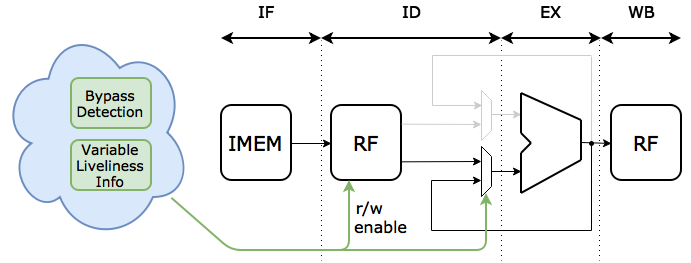
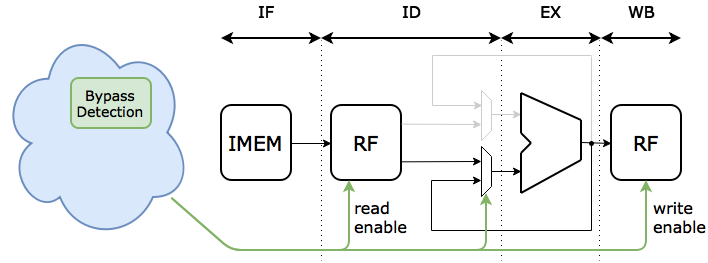
Second draft version, day before presentation finally got all feedback corporated and ready for external review.

diff --git a/chapters/solutions.tex b/chapters/solutions.tex
@@ -15,6 +15,12 @@ We could implement a pass to our backend that keeps track of the state of our pi
 
 However, when we ran out of registers during register allocation, we had inserted spill code. When we allocate bypasses, we effectively free up registers. Since the spill code had already been inserted, it might have become unnecessary. Therefore, one improvement to this approach would be to move spill code after bypasses have been allocated to where they are needed, in order to avoid unnecessary spills.
 
+\subsection{Advantages}
+One of the advantages of this approach is its simplicity. Namely, the schedule is already given and variables have already been allocated to registers. Allocating bypasses with this information available is a relatively simpler problem. 
+
+\subsection{Disadvantages}
+Since the schedule is already given, there may be some additional bypassing opportunities that could have been used if the schedule would have been different. Therefore, some bypass opportunities may have been missed. Furthermore, this has currently been implemented as a pass that processes each basic block of a machine function. Desirable would be to extend the scope from basic block to a larger scope, e.g. extended basic blocks. 
+
 \section{Bypass-aware Register Allocation}\label{sec:ra_approach}
 %Approach 2
 Another approach would be to implement a bypass-aware register allocator. Assuming that we have performed scheduling before register allocation, the instructions are in order of execution, allowing us to model the pipeline state as we did for the first approach. Our bypass-aware register allocator could start by allocating bypass registers. Then the remaining virtual registers could be allocated as usual. With this approach, we reduce register pressure by allocating bypasses before register allocation, effectively freeing registers. Therefore we may need less spill code, which is now inserted after bypasses have been allocated. So in contrary to the first approach, we do not have to take special care of spilling.
@@ -22,10 +28,22 @@ Another approach would be to implement a bypass-aware register allocator. Assumi
 This approach would require us to implement a custom register allocator that consists of two phases. First, we allocate a bypass registers for each virtual register that can be bypassed. Subsequently, we have to allocate physical registers for the remaining virtual register. For the second phase we may reuse any of the existing register allocators. 
 %Introduce example code where we could have better bypass utilizzation, i.e. less stores by scheduling differently
 
+\subsection{Advantages}
+The main advantage of this approach is that it can deal efficiently with spill code. By effectively reducing register pressure before register allocation, we reduce the requirements on the register allocator.  
+Since register allocation and bypass allocation are similar problems, it makes sense that these phases can be reordered. 
+
+\subsection{Disadvantages}
+Similar to last-minute allocation, the schedule is given prior to register allocation. Therefore, a schedule may exist that allows for better utilization of the bypass network. Therefore, we may gain in resulting code quality by controlling the resulting schedule.
+
 \section{Bypass-aware Scheduling}\label{sec:scheduling_approach}
 %Approach 3
 For this approach we need to implement a custom scheduler for our backend. This scheduler would prioritize to schedule instructions that may be bypassed close to each other, such that we may increase the possible number of bypasses. If we were to allocate bypasses during scheduling, code might be inserted during register allocation or any other passes that follow, that may break a previously allocated bypass. Therefore, it may be wise to allocate the bypasses as late as possible, and let the scheduler be responsible for improving utilization of the bypass network. 
 
+\subsection{Advantages}
+By grouping instructions together such that they can be bypassed later on may increase the utilization of the bypass network and reduce accesses to the register file.
+
+\subsection{Disadvantages}
+Assuming that we have scheduled the code in such a way that we can efficiently use the bypass network, we still need to allocate the bypasses. We can use either one of the first two approaches to do this and can therefore combine this approach with the first or second approach.
 
 \section{Pre Scheduling Allocation}\label{sec:pre_scheduling}
 %Approach 4
@@ -35,6 +53,23 @@ When we allocate bypasses before scheduling and register allocation, it is possi
 
 With this approach, we would need to find a tradeoff to not restrict the schedule too much, but still utilizing the bypass network as much as possible.   
 
+\subsection{Advantages}
+We may further increase utilization of the bypass network, reducing the total number of accesses to the register file. Furthermore, this approach may be combined with the previously proposed solutions. 
+
+\subsection{Disadvantages}
+As stated before, glueing nodes together introduces constraints on the schedule. We do not want to make too much restrictions on the schedule such that we decrease efficiency of the compiled code. We do need to think of heuristics that may identify pairs of nodes which would increase the total number of bypasses if they were grouped together, and do that up to some point. Altogether, this means that it will be harder to develop because we should not do this too aggressively.
+
 \section{Combined Scheduling and Register Allocation}\label{sec:combined_sched_ra}
 %Approach 5 & 6
-We can also choose to solve scheduling and RA in one go. This way, problems that can arise of doing one before the other may be avoided. There are two approaches to solve this problem. One is to solve it optimally, using constraint programming. Unison, a separate project that solves scheduling and register allocation optimally in one go can be used with LLVM and can be extended to allocate our bypasses. However, solving this problem optimally, may increase compilation time significantly, which we would like to avoid. Therefore, another approach would be to use heuristics to solve scheduling and register allocation in one go. There are no implementations of this thus far, which makes this approach the most difficult one. However, when we can efficiently deal with these problems in one go, we might extend this for other architectures as well. 
+We can also choose to solve scheduling and RA in one go. This way, problems that can arise of doing one before the other may be avoided. There are two approaches to solve this problem. One is to solve it optimally, using constraint programming. Unison \cite{unison}, a separate project that solves scheduling and register allocation optimally in one go can be used with LLVM and can be extended to allocate our bypasses. However, solving this problem optimally, may increase compilation time significantly, which we would like to avoid. Therefore, another approach would be to use heuristics to solve scheduling and register allocation in one go. There are no implementations of this thus far, which makes this approach the most difficult one. However, when we can efficiently deal with these problems in one go, we might extend this for other architectures as well. 
+
+\subsection{Advantages}
+Both approaches discussed in this section have as advantage that they do not have limitations that may be introduced by doing either scheduling or register allocation first. We therefore aim to increase the quality of the resulting code by merging the scheduling phase with the register allocation phase. 
+
+\subsection{Disadvantages}
+In general, combining register allocation and scheduling into one problem increases complexity, because these relatively difficult problems now need to be solved in one go. 
+We have two variants of this approach, therefore we make a distinction between these two cases:
+\begin{itemize}
+\item Combined Scheduling and Register Allocation with Unison has as main disadvantage that compilation times increase, since a constraint solves is usually time consuming.
+\item Combined Scheduling and Register Allocation with Heuristics only works as well as the heuristics that are used. Therefore, the main disadvantage of this approach is its implementation complexity. Choosing heuristics and developing the pass will require more work than the other approaches.
+\end{itemize}

diff --git a/chapters/related_work.tex b/chapters/related_work.tex
@@ -1,20 +1,24 @@
-The related work is introduced in this part, including the legacy compiler, building the LLVM back-end for SIMD architecture, explicit datapaths in other architecture and some scheduling and register allocation algorithms applied in other compilers.
+There is related work for compilers that target SIMD architectures, in particular a compiler has been developed, referred to as legacy compiler. Furthermore, there is related work in building an LLVM backend, and compiling with explicit datapaths has been an active research topic for other architectures. We will also discuss some related work in scheduling and register allocation. We have divided this in four section in the remainder of this chapter.
+% scrap
+%The related work is introduced in this part, including the legacy compiler, building the LLVM back-end for SIMD architecture, explicit datapaths in other architecture and some scheduling and register allocation algorithms applied in other compilers.
 
 \section{Legacy compiler}
-The legacy compiler was developed by the ES group in 2003. We will use the SIMD architecture as it was designed during that project \cite{simd}. The legacy compiler has a custom backend for the SIMD architecture, that can generate code for explicit datapaths \cite{dongrio1} and it can compile a subset of C code and hand-touched OpenCL code, which requires custom pragmas to compile efficiently \cite{dongrio2}. The new compiler will be evaluated relative to the legacy compiler, to access efficiency of the new compiler.
+The legacy compiler was developed by the ES group in 2003. We will use the SIMD architecture as it was designed during that project \cite{simd}. The legacy compiler has a custom backend for the SIMD architecture, that can generate code for explicit datapaths \cite{dongrio1} and it can only compile a subset of C code and hand-touched OpenCL code, which requires manual insertion of custom pragmas to compile efficiently \cite{dongrio2}, which we do not desire. Our goal is to overcome these limitations and improve the compilers maintainability. Furthermore, the new compiler will be evaluated relative to the legacy compiler in order to access efficiency of the generated code.
 %Dongrio's simd work 
 %Johan janssen & ... TTA work
 %Other exposed datapaths
 
 \section{Building an LLVM back-end}
-Our backend is partially based on the works of creating a new backend in the LLVM compiler infrastructure \cite{tricore}. Furthermore, based on that work, an LLVM backend for SIMD architecture has been developed \cite{liu_zhenyuan}. However, this work is for code generation with implicit bypassing. We therefore need to extend this work to efficiently generate code for explicit bypassing as well. Therefore, our work will be an extension to previously noted work.
+Our backend is derived from tricore tutorial on creating a new backend for the LLVM compiler framework \cite{tricore}. Furthermore, based on that work, an LLVM backend for SIMD architecture without explicit bypassing has been developed \cite{liu_zhenyuan}. However, the current compiler generates code with implicit bypassing. We therefore need to extend this to efficiently generate code for explicit bypassing as well. Therefore, our work will be an extension to previously noted work.
 
 \section{Other Exposed/Explicit Datapath Architectures}
-The main works that we investigated is the TTA architecture, where instructions consist of data transports. However, this work can not be used, because with our SIMD architecture, the data transports are given, and we want to compile in order to efficiently use explicit datapaths that are provided \cite{tta, tta_codegen}.
+Compiling with explicit datapaths have been an active topic of research. We have investigated several architectures that face similar challenges. One of the main works that we investigated is the TTA architecture, where instructions consist of data transports. However, their approach can not be used because with our SIMD architecture, data transports are given and we want to compile in order to efficiently use the explicit datapaths that are provided \cite{tta, tta_codegen}.
 
 Another architecture that exploits explicit datapath architectures is the ReMove architecture \cite{remove}. That work focusses on scheduling for partially connected architectures with explicit datapaths. The ReMove architecture is similar to a VLIW, having multiple FUs, however here they have an interconnect network that connects the FUs to the RF. The scheduling algorithm used in this work can not be used in our work, because similar to the legacy compiler for SIMD, this project has a custom backend, which can not be reused for LLVM. However, the basic principles of the scheduling algorithms proposed in this work are still valid and may be reused for our work.
 
-\subsection{Scheduling and Register Allocation}
-First of all, from the existing scheduling algorithms, Swing Modulo Scheduling (SMS) seems to be a suitable scheduling approach. It is a heuristic approach that is able to deal efficiently with software pipelining.Furthermore it is known for its outstanding performance and low computational cost. The generated schedules are near optimal in terms of initiation interval and register requirements \cite{swingmodulo_paper, swingmodulo_thesis}.
+\section{Scheduling and Register Allocation}
+First of all, from the existing scheduling algorithms, Swing Modulo Scheduling (SMS) seems to be a suitable scheduling approach. It is a heuristic approach that is able to deal efficiently with software pipelining.Furthermore it is known for its outstanding performance and low computational cost. The generated schedules are near optimal in terms of initiation interval and register requirements \cite{swingmodulo_paper, swingmodulo_thesis}. We consider this a candidate scheduler to use.
 
-Furthermore, the following literature discusses register allocation for SSA-based programs that solves coloring problem optimally in quadratic-time optimal by decoupling coloring, spilling and coalescing \cite{ra}.
+Furthermore, the following literature discusses register allocation for SSA-based programs that solves coloring problem optimally in quadratic-time optimal by decoupling coloring, spilling and coalescing \cite{ra}. This technique may allow us to implement a custom register allocator that solves the problem in polynomial time.
+
+Finally, there is another project, called Unison. They solve scheduling and register allocation and other code generation tasks by translating them into combinatorial problems and solve them together with constraint programming \cite{unison}. We consider this a candidate constraint solver to use because it can be easily integrated with LLVM.

diff --git a/chapters/conclusions.tex b/chapters/conclusions.tex
@@ -1,42 +1,25 @@
-We have implemented last-minute bypass allocation and tested in on some benchmarks. However, we do not yet have all the benchmarks that we want to use. For this reason, we have chosen which benchmarks to use in order to evaluate the different approaches. These benchmarks will be developed and compiled, which is then compared to a handwritten assembly variant and to compiled code of the legacy compiler. 
+We have implemented last-minute bypass allocation and tested it on some benchmarks. However, we do not yet have all the benchmarks that we intend to use. Therefore we do not yet have reliable results that could indicate how efficient our first approach is. Furthermore, we have implemented last-minute bypassing for code generation, where we use only the CP processor. We want to extend this to allocate bypasses in a basic block for code generation, where we use both CP and PEs.
 
-What metric would be suitable to evaluate the different approaches with each other and with the legacy compiler?
+The overall results are good, however there are some limitations. Our approach processes basic blocks with only the available information of the current basic block. We notice that bypassing opportunities may be missed for small basic blocks, having only a few instructions. %This could be resolved however, by splitting the current pass in an analysis pass and a transformation pass. We then run the analysis part first, so that we have the state of 
 
-First of all, we could compare the number of cycles of the compiled code to that of the handwritten assembly and to resulting code of the legacy compiler, to assess efficiency in terms of execution speed. Furthermore, the ratio of bypass register accesses and normal register accesses may be used to determine efficiency of our bypass allocation approaches. Again, this ratio can be compared to that of the legacy compiler.
 
-We have implemented last-minute bypassing for code generation, where we use only the CP processor. We want to extend this to allocate bypasses in a basic block for code generation, where we use both CP and PEs.
+%BEGIN PROS & CONS
+We have evaluated each of the proposed solutions on their tradeoffs in table \ref{table:tradeoffs} on estimated implementation effort, compilation times if the approach were used, and gain in code quality that we may expect for each of the solutions. 
 
-\section{Benchmarks}\label{sec:benchmarks}
-\begin{itemize}
-    \item Signal processing kernels:
-        \begin{itemize}
-            \item Fast Fourier Transformation (FFT) algorithm:
-            \item Finite Impulse Response (FIR) filter:
-        \end{itemize}
-    \item Linear algebra kernels:
-        \begin{itemize}
-            \item Vector addition,
-            \item Vector dot product,
-            \item Matrix transpose,
-            \item Matrix multiplication.
-        \end{itemize}
-        \item Image processing kernels:
-    \begin{itemize}
-        \item Blurring algorithm:
-        \begin{itemize}
-            \item Gaussian blur,
-            \item Median blur.
-        \end{itemize}
-        \item Histogram
-        \item Fast Focus On Structures (FFOS) on  Organic Light Emitting Diode (OLED), which consists of the following kernels \cite{ffos}:
-        \begin{itemize}
-            \item Otsu's method: 
-            \item Binarization: 
-            \item Erosion: 
-            \item Projection: 
-        \end{itemize}
-    \end{itemize}
-    
-\end{itemize}
-
-We have yet to implement the benchmarks, and access efficiency of our approaches on these benchmarks. From that will follow how much accesses to the RF can be avoided. We will simulate the processor and compare the resulting assembly with automatic and with explicit bypasses. Then we can determine how much energy each of the kernels requires, and therefore determine how much energy we can save by adding explicit bypassing on top of the compiler targeting the SIMD architecture. 
+\begin{table}[h]
+\caption{Table with tradeoffs for each approach from Chapter \ref{chapter:solutions}.}
+\begin{center}
+\begin{tabular}{@{}p{0.4\textwidth-2\tabcolsep}p{0.2\textwidth-2\tabcolsep}p{0.2\textwidth-2\tabcolsep}p{0.2\textwidth-2\tabcolsep}@{}}
+\toprule
+\textbf{Aprroach} 		& \textbf{Implementation simplicity} & \textbf{Compilation speed} & \textbf{Quality of the compiled code} \\ \hline
+Last-minute Allocation  	& $++$ & $+$ & $+$ \\
+Bypass-aware Register Allocation & $+$ & $+$ & $+$ \\
+Bypass-aware Scheduling & $+$ & $+$ & $+$ \\
+Pre Scheduling Allocation & $-$ & $+$ & $+$ \\
+Combining Scheduling and Register Allocation Heuristic & $--$ & $+$ & $++$ \\
+Combined Scheduling and Register Allocation with Unison & $-$ & $--$ & $++$ \\
+\bottomrule
+\end{tabular}
+\end{center}
+\label{table:tradeoffs}
+\end{table}%

diff --git a/chapters/evaluation.tex b/chapters/evaluation.tex
@@ -1,0 +1,73 @@
+We have chosen which benchmarks will be used to evaluate each of the proposed solutions and given them in Table \ref{table:benchmarks}. These benchmarks will be developed and compiled, which will then be compared to a handwritten assembly version and to compiled code that would have been produced by the legacy compiler. 
+
+\begin{table}[h]
+\caption{Table with benchmark kernels that we have chosen to evaluate each of the proposed solutions.}
+\begin{center}
+\begin{tabular}{@{}p{0.3\textwidth-2\tabcolsep}p{0.7\textwidth-2\tabcolsep}@{}}
+\toprule
+\textbf{Category:} & \textbf{Kernel:} \\ \hline
+{Signal Processing} & Fast Fourier Transformation (FFT) \\
+								& Finite Impulse Response (FIR) filter \\
+{Linear Algebra Kernels} 	& Vector addition \\
+            					& Vector dot product \\
+            					& Matrix transpose \\
+            					& Matrix multiplication \\
+{Image Processing} 	& Blurring filter: \\
+					& - Gaussian blur \\
+					& - Median blur \\
+					& Fast Focus On Structures (FFOS) on Organic Light Emitting Diode (OLED), which consists of the following kernels \cite{ffos}: \\
+					& - Otsu's method \\
+					& - Binarization \\
+					& - Erosion \\
+					& - Projection \\
+%	& Vector addition		& Gaussian blur\\
+%	& Vector dot product		& Median blur \\
+%							& Matrix transpose		& FFOS \\
+%							& 					& - Otsu's method \\
+%							& 					& - Binarization \\
+%							& 					& - Erosion \\
+%							& 					& - Projection \\
+\bottomrule
+\end{tabular}
+\end{center}
+\label{table:benchmarks}
+\end{table}%
+
+
+%\section{Benchmarks}\label{sec:benchmarks}
+%\begin{itemize}
+%    \item Signal processing kernels:
+%        \begin{itemize}
+%            \item Fast Fourier Transformation (FFT) algorithm:
+%            \item Finite Impulse Response (FIR) filter:
+%        \end{itemize}
+%    \item Linear algebra kernels:
+%        \begin{itemize}
+%            \item Vector addition,
+%            \item Vector dot product,
+%            \item Matrix transpose,
+%            \item Matrix multiplication.
+%        \end{itemize}
+%        \item Image processing kernels:
+%    \begin{itemize}
+%        \item Blurring algorithm:
+%        \begin{itemize}
+%            \item Gaussian blur,
+%            \item Median blur.
+%        \end{itemize}
+%        \item Histogram
+%        \item Fast Focus On Structures (FFOS) on  Organic Light Emitting Diode (OLED), which consists of the following kernels \cite{ffos}:
+%        \begin{itemize}
+%            \item Otsu's method,
+%            \item Binarization,
+%            \item Erosion,
+%            \item Projection. 
+%        \end{itemize}
+%    \end{itemize}
+%\end{itemize}
+
+What metric would be suitable to evaluate the different approaches with each other and with the legacy compiler?
+
+First of all, we could compare the number of cycles of the compiled code to that of the handwritten assembly and to resulting code of the legacy compiler, to assess efficiency in terms of execution speed. Furthermore, the ratio of bypass register accesses and normal register accesses may be used to determine efficiency of our bypass allocation approaches. Again, this ratio can be compared to that of the legacy compiler and handwritten versions.
+
+We have yet to implement the benchmarks, and access efficiency of our approaches on these benchmarks. From that will follow how much accesses to the RF can be avoided. We will simulate the processor at HDL level to assess energy consumption and simulate execution of the assembly, resulting from compiling our benchmarks with implicit and with explicit bypassing. Then we can determine how much energy each of the kernels requires, and therefore determine how much energy we can save by adding explicit bypassing on top of the compiler targeting an SIMD architecture. 

diff --git a/chapters/planning.tex b/chapters/planning.tex
@@ -1,4 +1,4 @@
-Course-grain and fine-grain planning for the graduation phase. The graduation phase will take six months, so we distribute that time span over each of the phases in Table \ref{table:planning}.
+Coarse-grain and fine-grain planning for the graduation phase. The graduation phase will take six months, so we distribute that time span over each of the phases in Table \ref{table:planning}.
 
 \begin{table}[h]
 \caption{Time table for the graduation phase.}
@@ -6,7 +6,7 @@ Course-grain and fine-grain planning for the graduation phase. The graduation ph
 \begin{tabular}{@{}p{0.25\textwidth-2\tabcolsep}p{0.6\textwidth-2\tabcolsep}p{0.15\textwidth-2\tabcolsep}@{}}
 \toprule
 \textbf{Phase} 		& \textbf{Tasks} & \textbf{Duration} \\ \hline
-Benchmarks setup 	& Develop benchmarks described in Chapter \ref{sec:benchmarks}.			& 1 week \\
+Benchmarks setup 	& Develop benchmarks described in Chapter \ref{chapter:evaluation}.			& 1 week \\
 First phase		& Implement a pass that allocates bypasses last minute, just before instructions are printed, as described in Chapter \ref{sec:last_minute_alloc}.		& 1 week \\
 Second phase	& Implement a custom register allocation, that first allocates bypasses and allocates the remaining registers as usual, as described in Chapter \ref{sec:ra_approach}.	& 2 weeks \\
 Third phase		& Implement a custom scheduler for our backend, that improves utilization of the bypass network, as described in Chapter \ref{sec:scheduling_approach}. & 3 weeks \\

diff --git a/chapters/abstract.tex b/chapters/abstract.tex
@@ -1,4 +1,5 @@
-This report concludes the preparation phase of the master project and will be used as a starting point for our master thesis. We tackle multiple approaches to generate efficient code for an SIMD architecture with explicit datapaths. We will develop each of these approaches within the LLVM compiler framework, as a means to extend a compiler to handle exposed datapaths. From six approaches that we propose in this report, we already implemented the first one. However, to improve it, and to handle vector instructions, we need to extend this work significantly. To conclude, the preparation phase is to get into the subject, and to get familiar with the project. The real work begins only now. 
+
+In this report we will research in ways to reduce energy consumption. We will achieve this by reducing the total amount of accesses to the register file by means of exploiting explicit datapaths. We describe six different approaches and evaluate which is most suitable based on tradeoffs, i.e. implementation complexity, compile time, resulting code quality, etc. We have already implemented one approach. However, to improve it, and to handle vector instructions, we need to extend this work significantly. The real work begins only now. 
 
 \vspace{10mm}
 \noindent {\bf Keywords:} \keywords

diff --git a/chapters/introduction.tex b/chapters/introduction.tex
@@ -57,4 +57,4 @@ What metric would be suitable to evaluate the different approaches with each oth
 
 %Overview
 \section{Overview}\label{sec:overview}
-In the remainder of this report we will discuss related works in Chapter \ref{chapter:related_work}. We will discuss bypassing, and show the difference between implicit and explicit bypassing in Chapter \ref{chapter:explicit_bypassing}. Proposed solutions for how to achieve our goal will be discussed in Chapter \ref{chapter:solutions}. We will provide a planning for this master thesis in Chapter \ref{chapter:planning} and early conclusions are given in Section \ref{chapter:conclusions}.
+In the remainder of this report we will discuss related works in Chapter \ref{chapter:related_work}. We will discuss bypassing, and show the difference between implicit and explicit bypassing in Chapter \ref{chapter:explicit_bypassing}. Proposed solutions for how to achieve our goal will be discussed in Chapter \ref{chapter:solutions} and we will discuss on how to evaluate each of the proposed solutions in Chapter \ref{chapter:evaluation}. Preliminary conclusions are given in Section \ref{chapter:conclusions} and we will provide a planning for this master thesis in Chapter \ref{chapter:planning}.

diff --git a/chapters/bypassing.tex b/chapters/bypassing.tex
@@ -36,7 +36,7 @@ We can use the liveliness information during compilation to determine whether a 
 \begin{figure}[t]
 \centering
 \includegraphics[width=.7\textwidth]{figures/expl_bypassing_principle/02_explicit_bypassing_principle}
-\caption{Illustration that shows the basic principles of explicit bypassing, read/write enabled port on RFs to avoid unnecessary writes.}
+\caption{Illustration that shows the basic principles of explicit bypassing, read enabled port on RFs to avoid unnecessary reads and write enable port to avoid speculative writes.}
 \label{fig:exp_bypass_principle_rw}
 \end{figure}
 

diff --git a/thesis.tex b/thesis.tex
@@ -53,7 +53,7 @@
 
 %use this include for PDF and distribution versions
 \pagenumbering{roman}
-\include{titlepage}
+\include{titlepage} 
 
 \normalsize
 
@@ -130,13 +130,18 @@
 
 %\clearemptydoublepage
 
+\chapter{Evaluation}\label{chapter:evaluation}
+\input{chapters/evaluation}
+
+%\clearemptydoublepage
+
 \chapter{Preliminary Conclusions}\label{chapter:conclusions}
 \input{chapters/conclusions}
 
 %\clearemptydoublepage
 
 \chapter{Planning}\label{chapter:planning}
-\input{chapters/planning}
+\input{chapters/planning}				
 
 %\clearemptydoublepage
 
